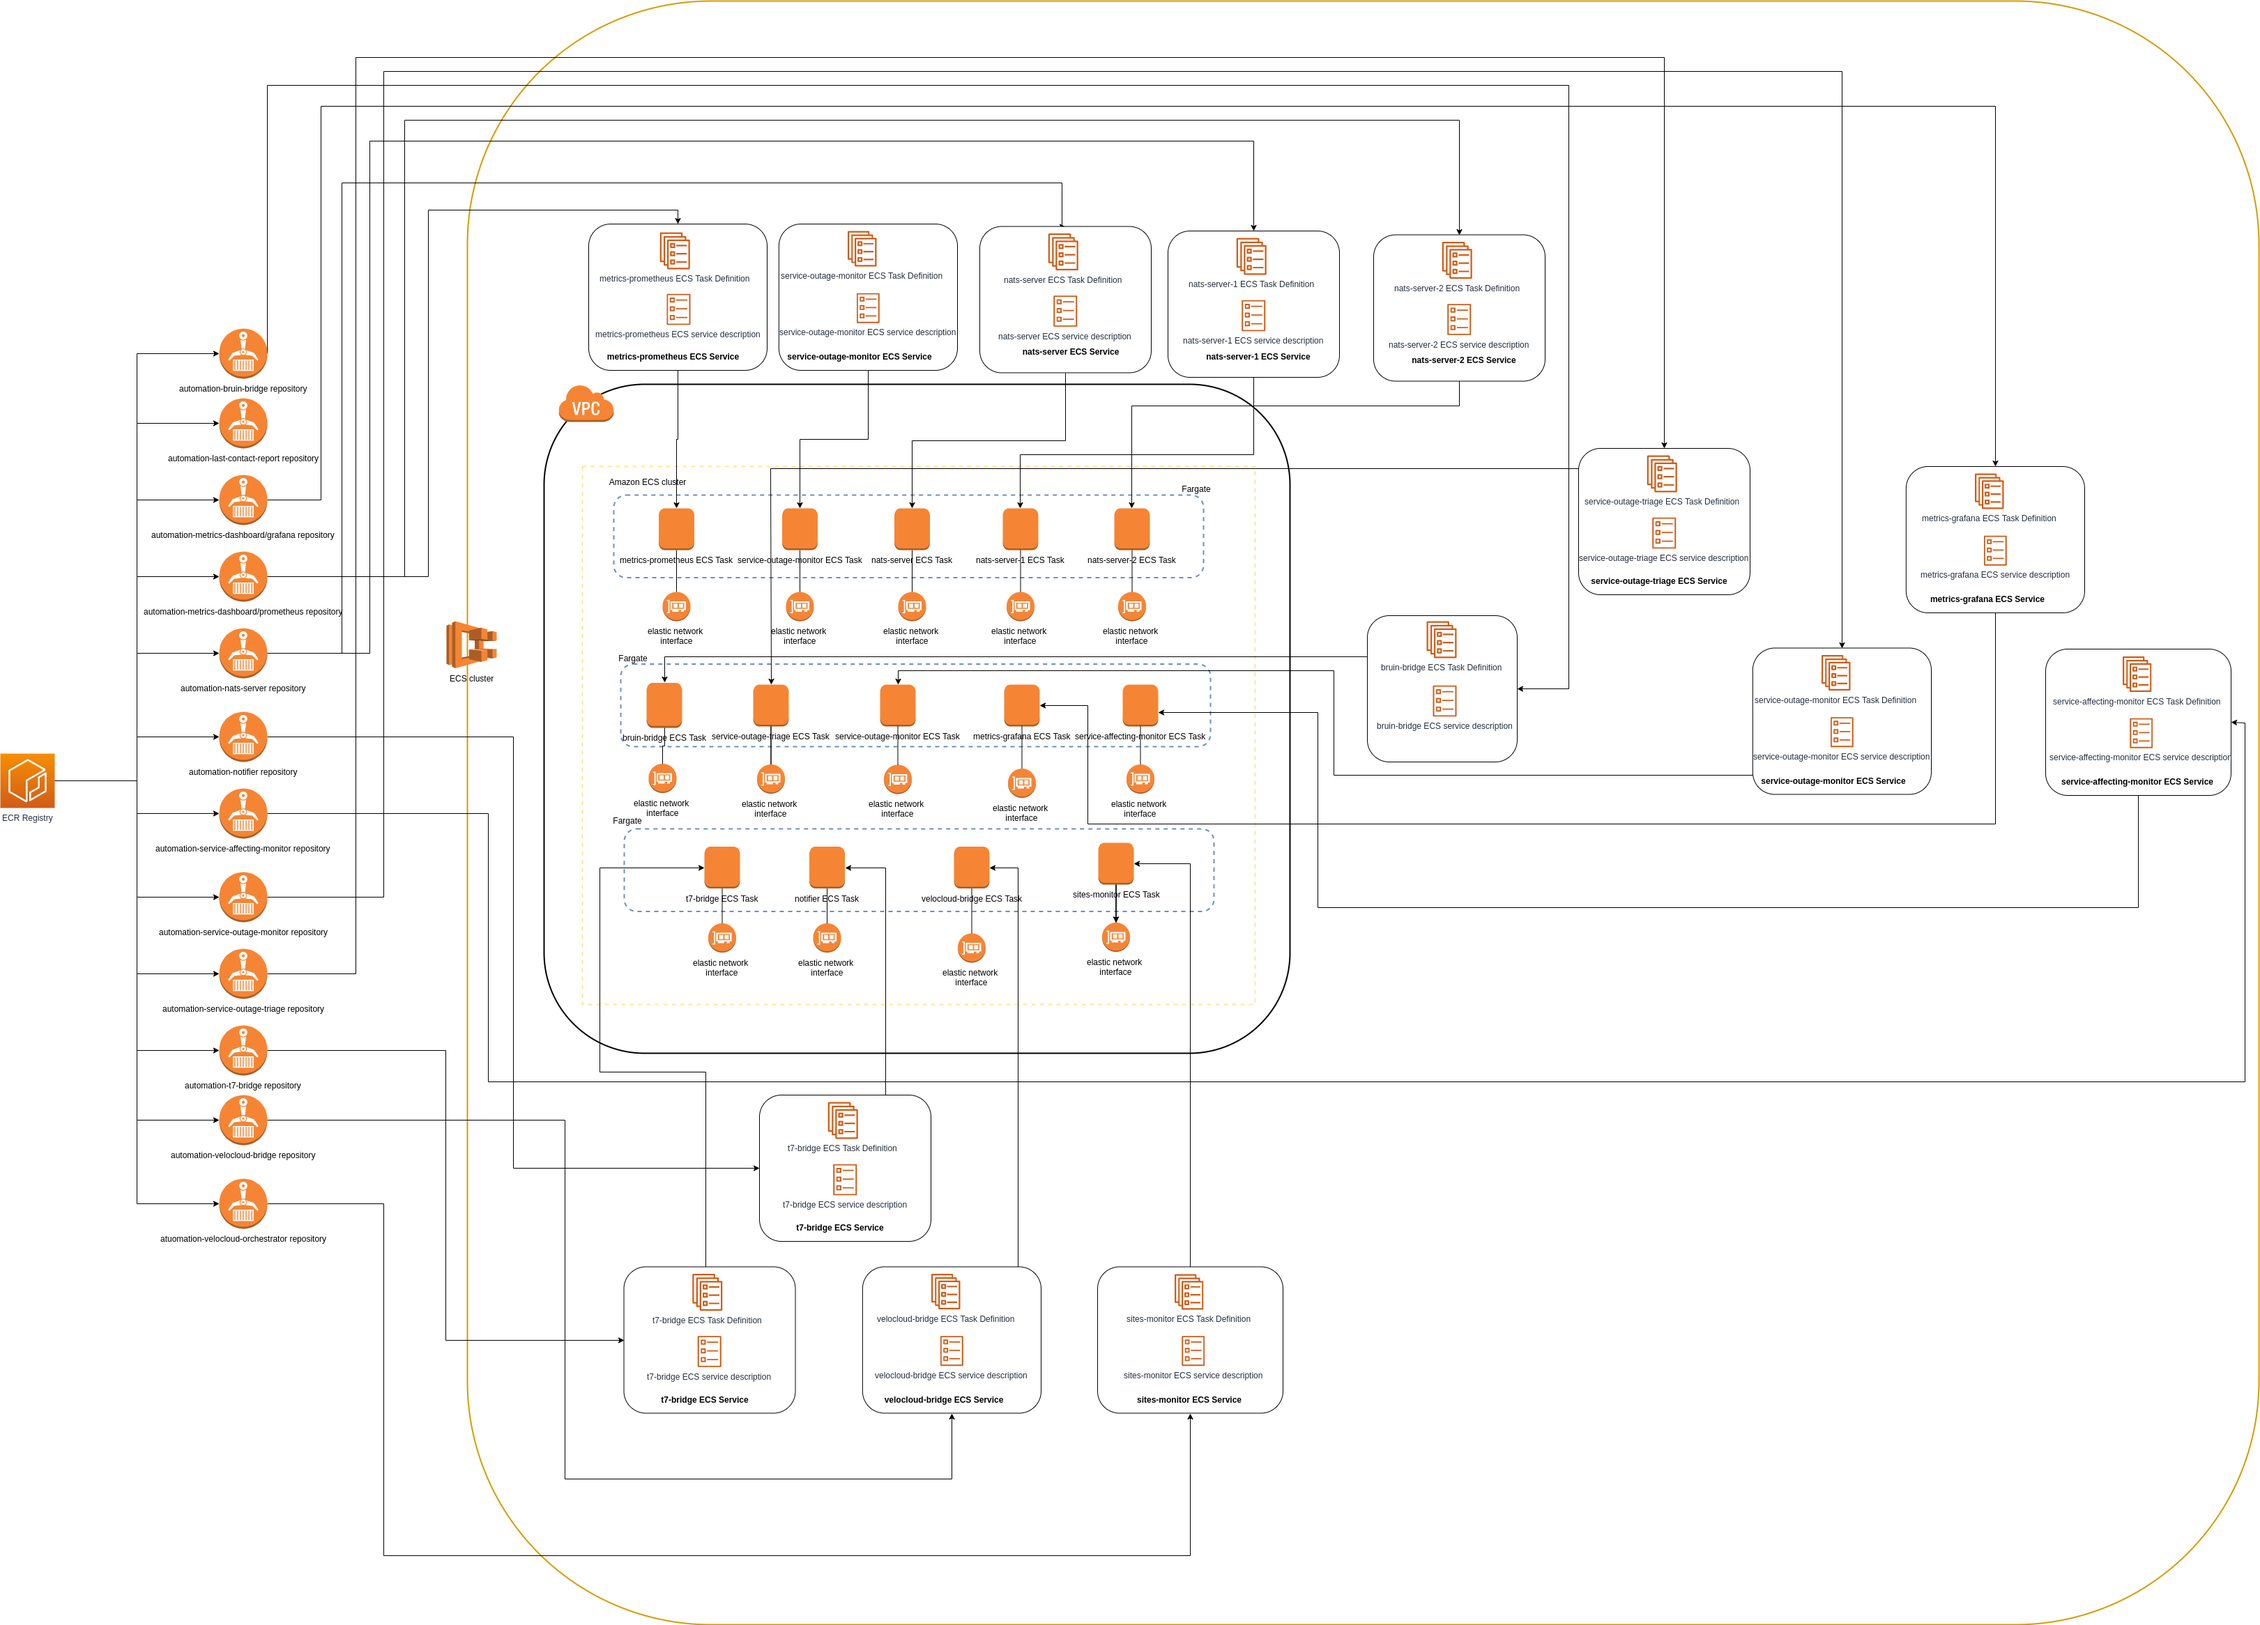
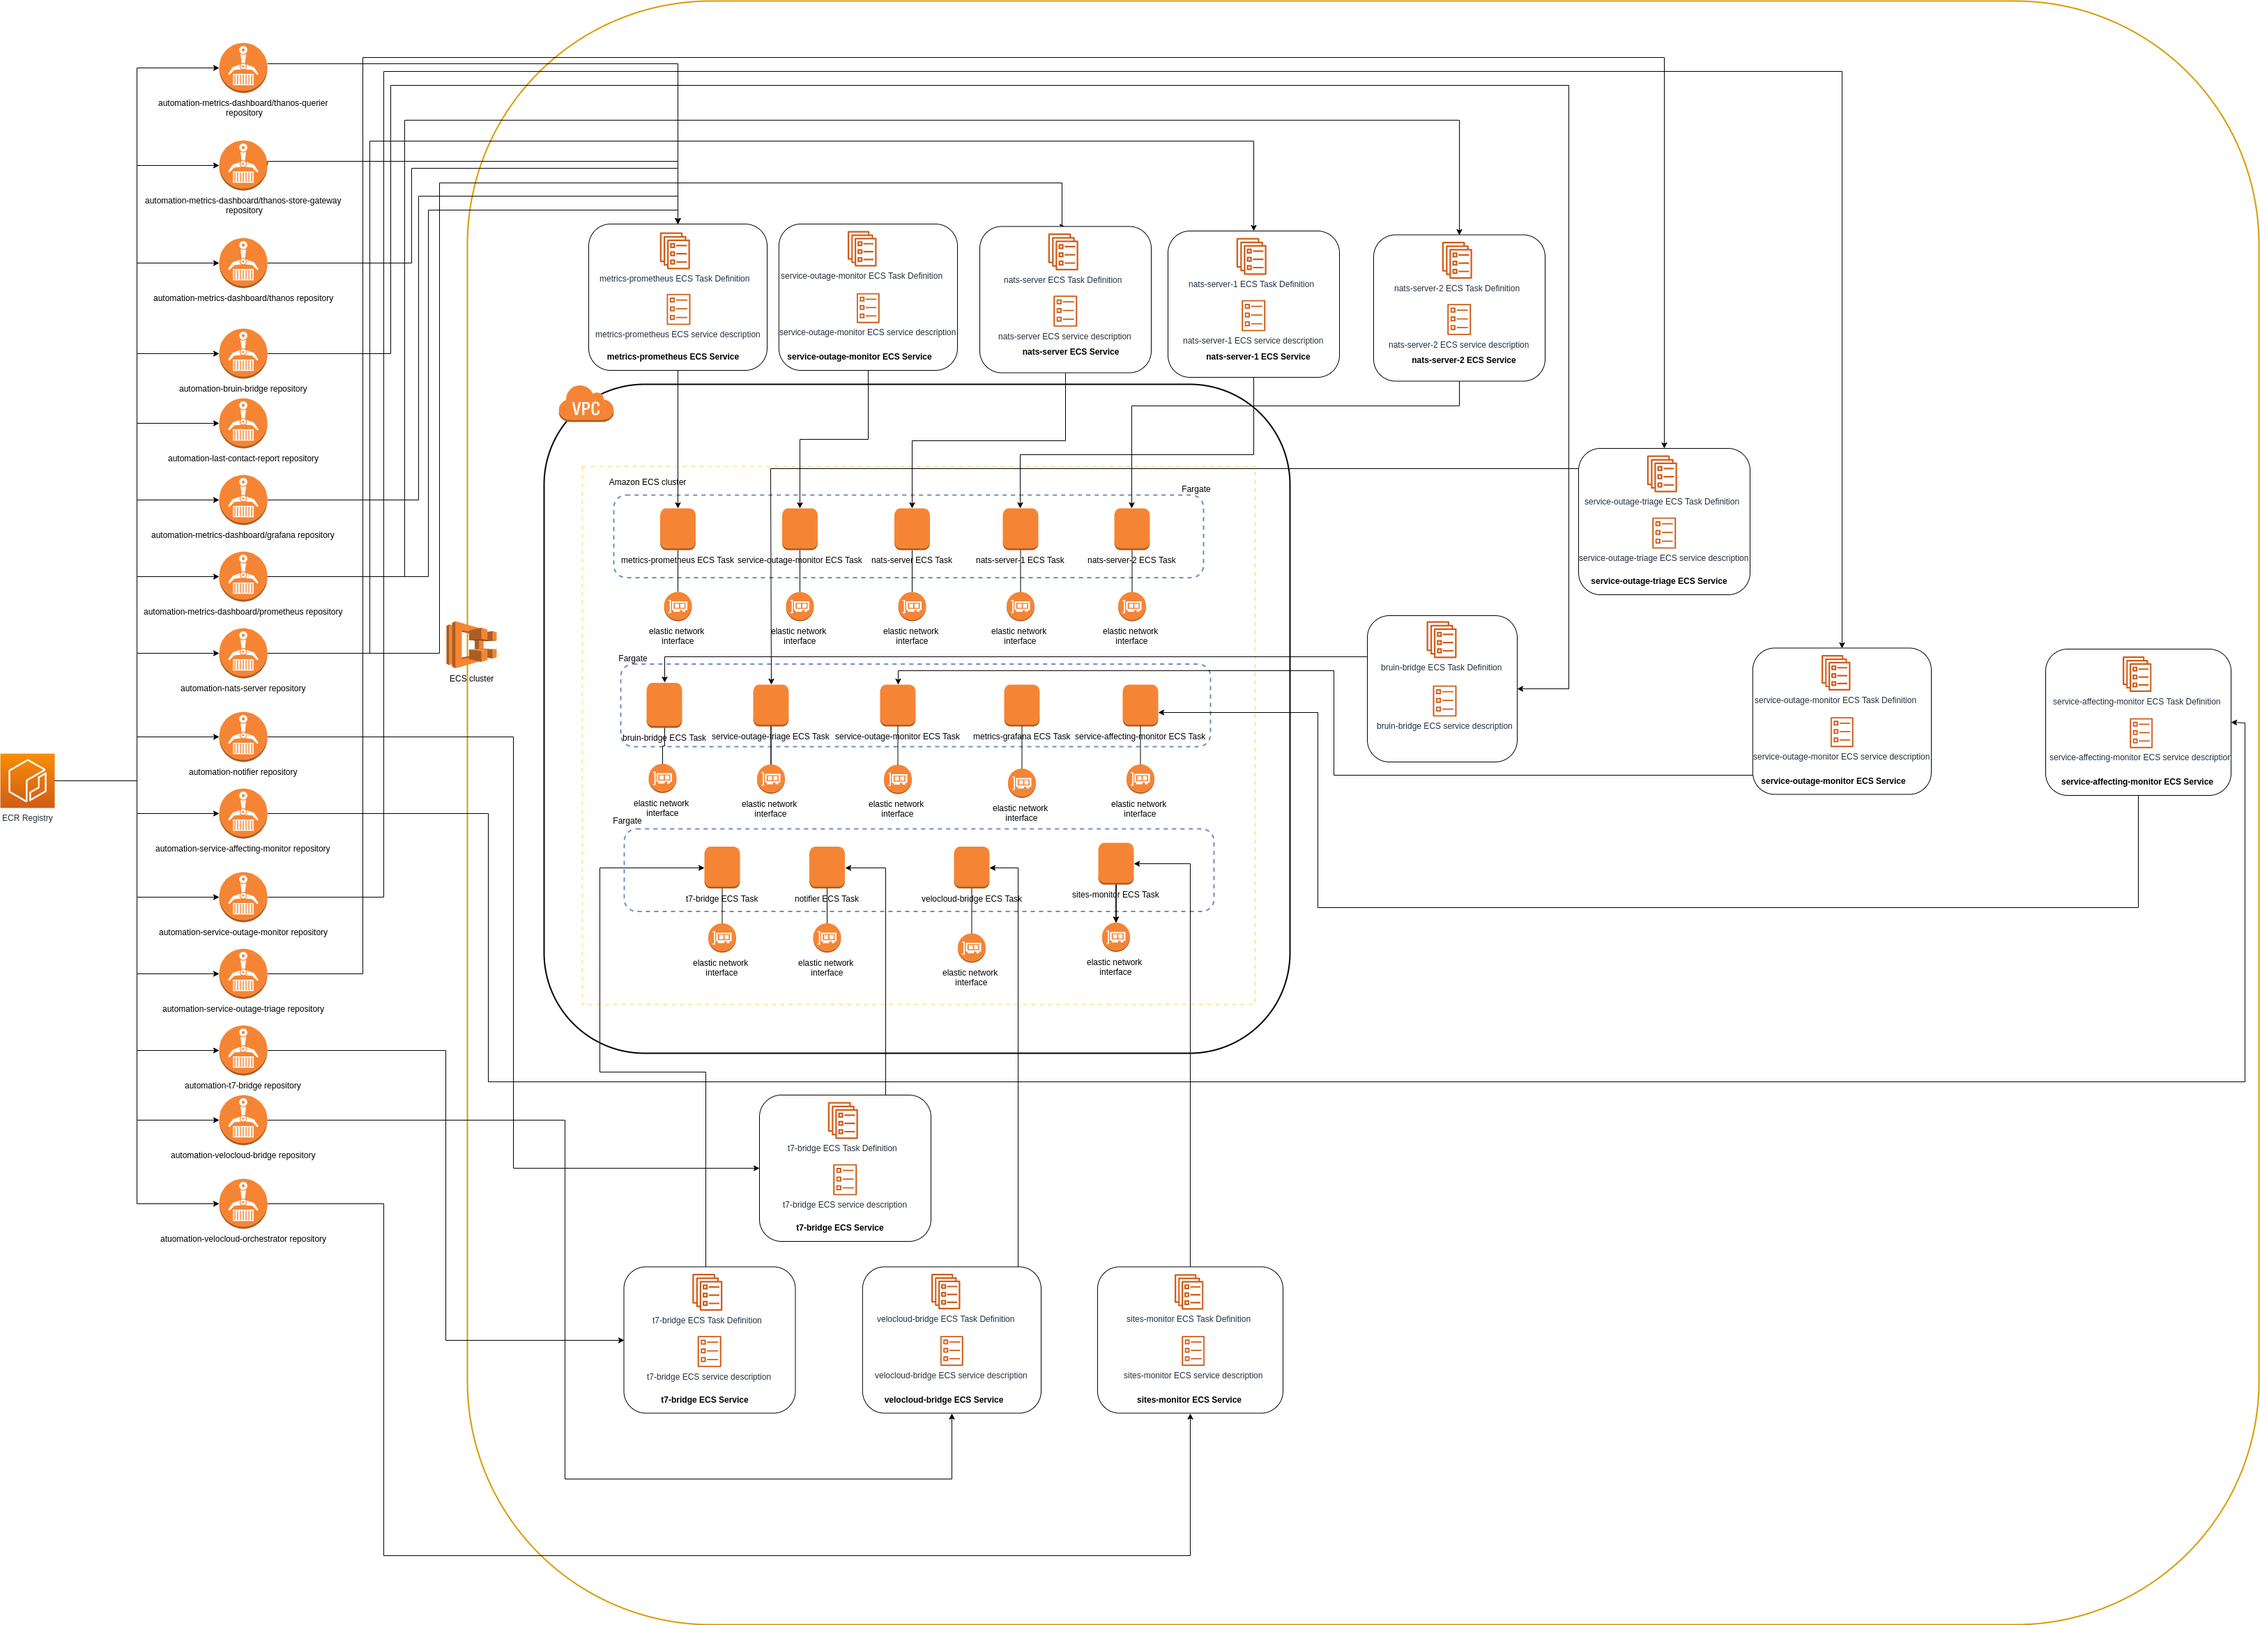
Add doc for new implementation of metrics-dashboard module

Changed region(s): [[0.0935, 0.0309, 0.1246, 0.1852], [0.8411, 0.2779, 0.9035, 0.3705], [0.2804, 0.3396, 0.3115, 0.4014]]

diff --git a/metrics-dashboard/README.md b/metrics-dashboard/README.md
@@ -1,0 +1,76 @@
+<div align="center">
+<img src="https://media.licdn.com/dms/image/C4E0BAQHrME9aCW6ulg/company-logo_200_200/0?e=2159024400&v=beta&t=6xMNS1zK1F8asBlM16EzbJ4Im7SlQ8L7a7sgcaNzZQE"  width="200" height="200">
+</div>
+
+# Metrics-dashboard<a name="metrics_dashboard"></a>
+
+This module is used for the collection and visualization of metrics, using a set of tools that will be explained below.
+
+**Table of contents**
+
+- [Prometheus](#prometheus)
+  - [Configuration](#prometheus_configuration)
+- [Thanos](#thanos)
+  - [Thanos sidecar](#thanos-sidecar)
+    - [Configuration](#thanos_sidecar_configuration)
+  - [Thanos store](#thanos-store)
+    - [Configuration](#thanos_store_configuration)
+  - [Thanos querier](#thanos-querier)
+    - [Configuration](#thanos-querier-configuration)
+- [Grafana](#grafana)
+  - [Configuration](#grafana_configuration)
+
+## Prometheus<a name="prometheus"></a>
+
+[Prometheus](https://github.com/prometheus) is an open-source systems monitoring and alerting toolkit.
+
+This tool is used in the project to obtain metrics of the microservices present in the project.
+
+### Configuration<a name="prometheus_configuration"></a>
+
+A `Dockerfile` of this tool is available in the [prometheus](./prometheus) folder, as well as the necessary configuration files to use it.
+
+In the [configuration files](./prometheus/configs) of Prometheus, it is indicated from which microservices it is desired to scrape metrics, indicating for each of them the necessary connection endpoint.
+
+>At the moment, Prometheus is used to collect metrics from the `sites-monitor` microservice, using the DNS address of the AWS Route53 service as connection endpoint.
+
+## Thanos
+
+[Thanos](https://github.com/thanos-io/thanos) is a set of components that can be composed into a highly available metric system with unlimited storage capacity, which can be added seamlessly on top of existing Prometheus deployments.
+
+The components of Thanos currently in use are listed below.
+
+### Thanos sidecar
+
+The [sidecar](https://github.com/thanos-io/thanos/blob/master/docs/components/sidecar.md) component process runs alongside the Prometheus server and ships new metrics off to the object storage bucket.
+
+#### Configuration<a name="thanos_sidecar_configuration"></a>
+
+There is a [Dockerfile](./thanos/Dockerfile) in which the copy of the configuration file is made, where the bucket in which the metrics will be stored is specified. In this Dockerfile also GRPC and HTTP ports are exposed, obtained through arguments in the build process.
+
+### Thanos store
+
+The [store](https://github.com/thanos-io/thanos/blob/master/docs/components/store.md) component provides a queryable interface to the remotely-stored metrics.
+
+#### Configuration <a name="thanos_store_configuration"></a>
+There is a [Dockerfile](./thanos/Dockerfile) in which the copy of the configuration file is made, where the bucket in which the metrics are stored for query them. In this Dockerfile also GRPC and HTTP ports are exposed, obtained through arguments in the build process.
+
+### Thanos querier
+
+The [querier](https://github.com/thanos-io/thanos/blob/master/docs/components/query.md) component provides the interface you’ll talk to from Grafana.
+
+#### Configuration<a name="thanos_querier_configuration"></a>
+
+There is a [Dockerfile](./thanos/Dockerfile-thanos_querier) in which GRPC and HTTP ports are exposed, obtained through arguments in the build process.
+
+## Grafana
+
+Grafana is a tool for query, visualize, alert on and understand metrics.
+
+Grafana is used in the project for the visualization of metrics through a set of dashboards.
+
+### Configuration<a name="grafana_configuration"></a>
+
+There is a [Dockerfile](./grafana/Dockerfile) in which the copy of the configuration files is made.
+
+The thanos-querier instance of the environment will be used as a data source for Grafana dashboards.

diff --git a/README.md b/README.md
@@ -104,7 +104,7 @@ Due to the limited number of task instances available per account in AWS (50 ins
 
 1. There are two jobs defined in the `infra-as-code/.gitlab-ci.yml` file: `deploy-branches` and `check-ecs-resources-branches`. A set of variables are declared within them to configure the number of tasks per microservice. The naming of these variables follows the convention `TF_VAR_<service_name>_desired_tasks`, where `service_name` is the name of the microservice declared in AWS.
 
-NOTE: Make sure that the set of variables is exactly the same in each of these jobs. This duplication can't be avoided because Terraform variables can't be shared between GitlabCI jobs of different stages.
+   NOTE: Make sure that the set of variables is exactly the same in each of these jobs. This duplication can't be avoided because Terraform variables can't be shared between GitlabCI jobs of different stages.
     Developers must modify the desired `TF_VAR_<service_name>_desired_tasks` variable to spawn as much tasks instances as they need for their ephemeral environments.
     > If the variable is set to 0, no tasks instances will be created for that microservice. The task definition will be deployed anyway, though.
 

diff --git a/docs/SYSTEM_OVERVIEW.md b/docs/SYSTEM_OVERVIEW.md
@@ -53,8 +53,6 @@ There are two types of microservices showed in the diagram above depending on th
     * *last-contact-report*
 
 * Microservices that doesn't communicate with NATS
-  
-  * *metrics-grafana*
 
   * *metrics-prometheus*
 
